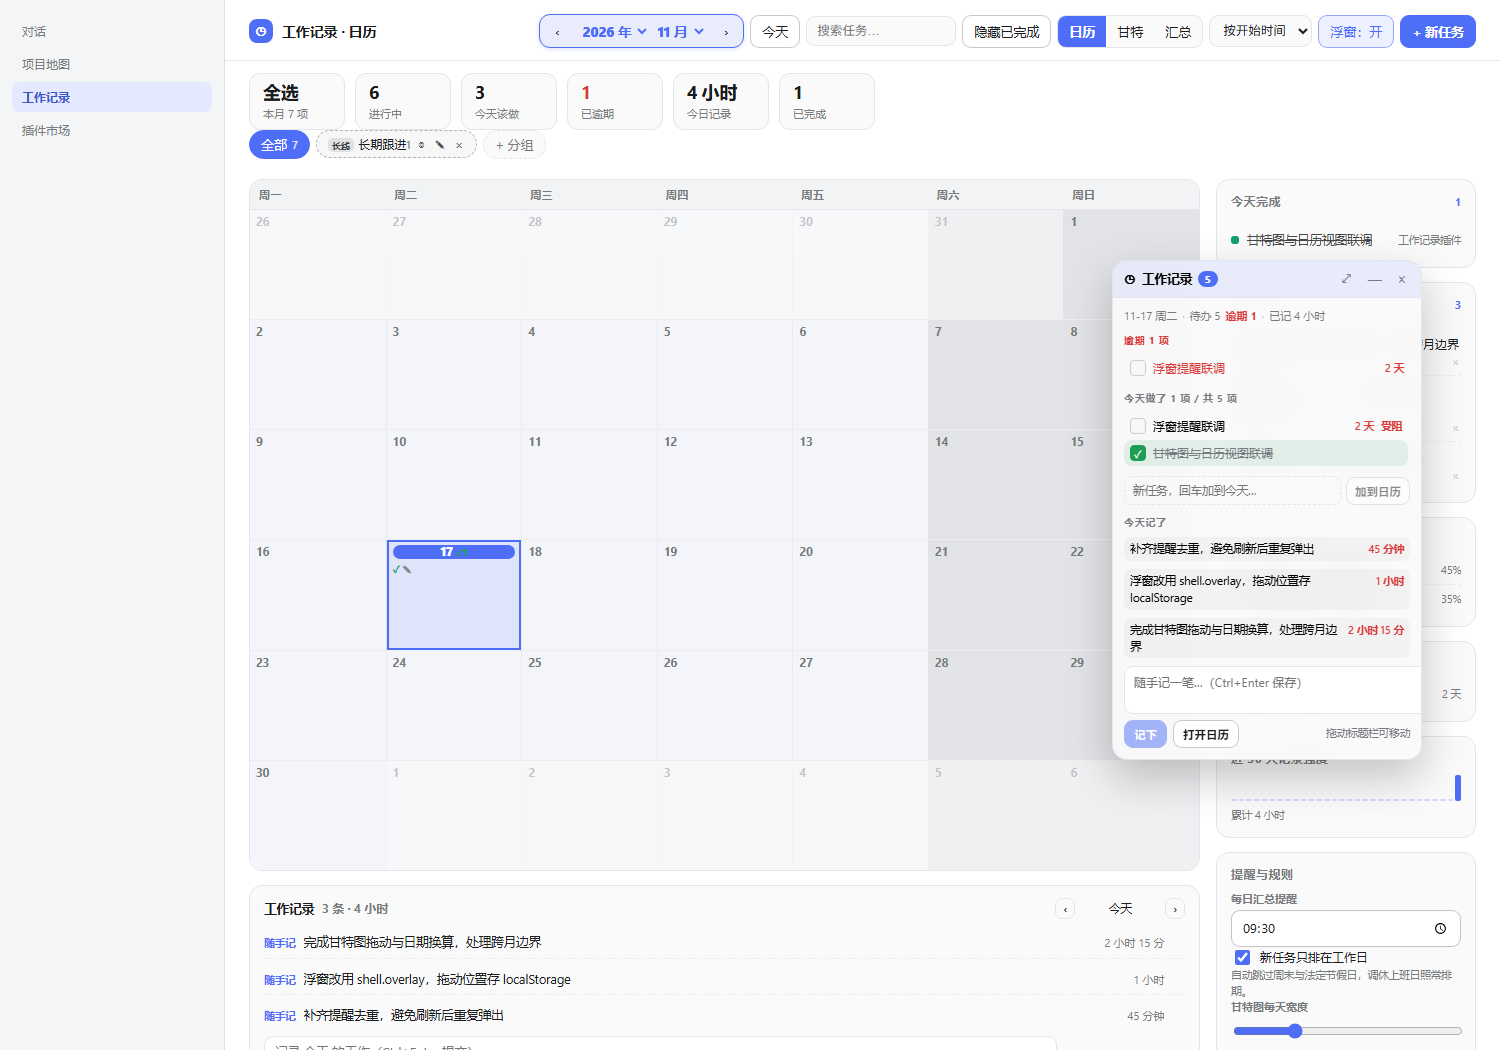
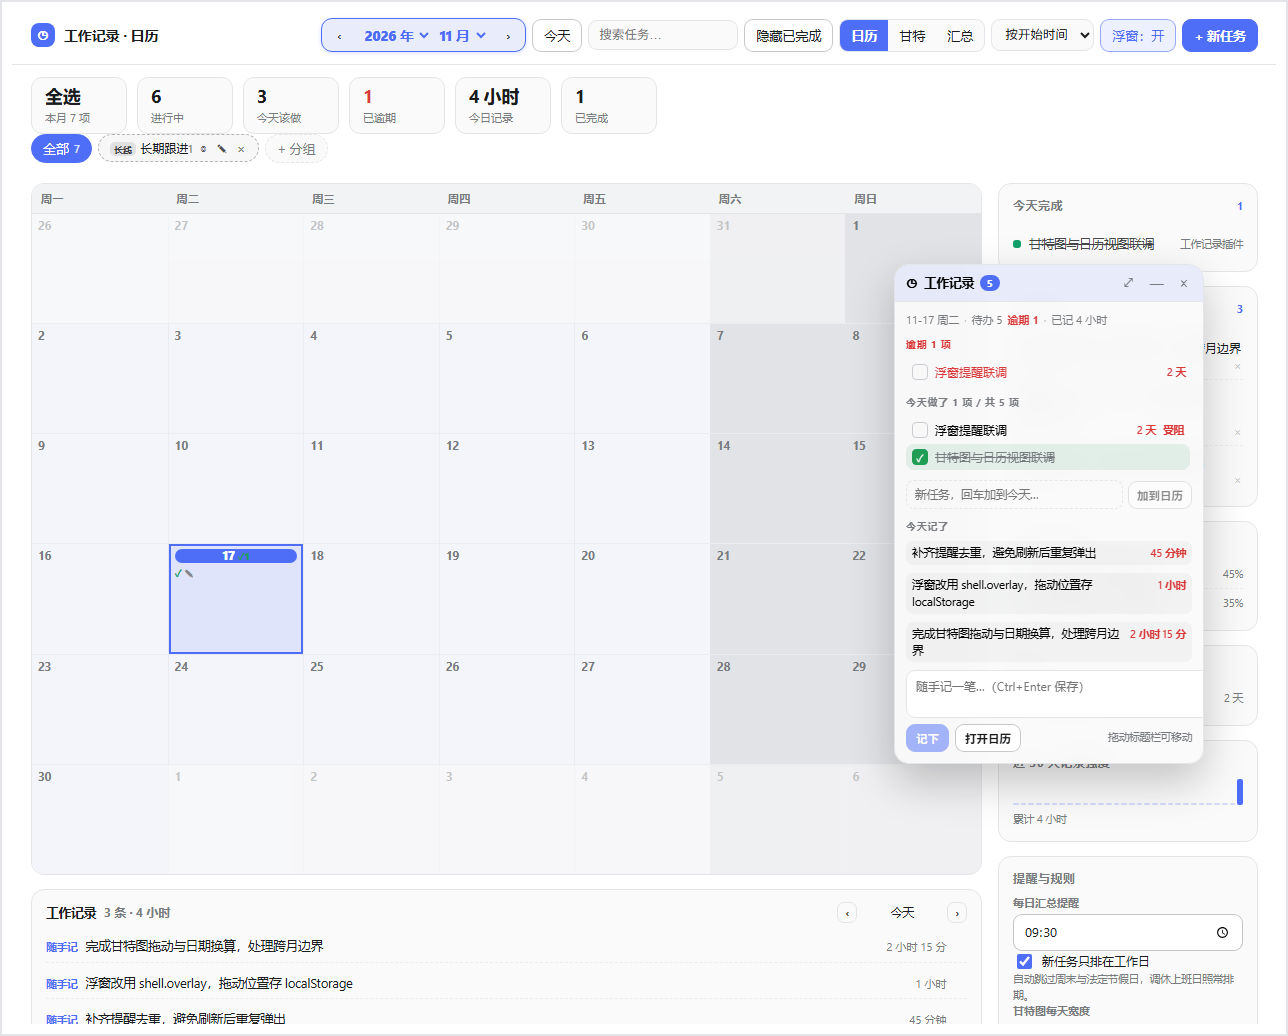
Polish README screenshots
Add a hero image and crop the remaining screenshots to the panel area so
they line up at the same size.

diff --git a/README.md b/README.md
@@ -4,7 +4,7 @@
 
 插件为单个独立包，无构建步骤、无第三方运行时依赖，浏览器端与宿主端代码都随仓库提供。数据保存在插件目录下的单个 JSON 文件中，卸载或迁移时随目录一并带走。
 
-![日历视图](docs/calendar.png)
+![日历视图与浮动提醒窗](docs/hero.png)
 
 ## 目录
 
@@ -40,19 +40,17 @@
 
 ## 界面预览
 
-日历视图以「我哪天做了什么」为信息主线的打卡表：
+开头的横幅展示日历视图与浮动提醒窗。以下为另外两个视图。
 
-![日历视图](docs/calendar.png)
-
-甘特视图显示完整任务名、项目、状态与实际时间跨度：
+甘特视图显示完整任务名、项目、状态与实际时间跨度，可拖动改期与改时长：
 
 ![甘特视图](docs/gantt.png)
 
-汇总视图回答「这段工作到底怎么过的」：
+汇总视图回答「这段工作到底怎么过的」，按任务与项目统计工时、受阻、跨度与打卡：
 
 ![汇总视图](docs/summary.png)
 
-浮动提醒窗与看板同时工作，浮窗可拖动、可收起为图标、可完全关闭：
+浮窗收起后为一个可拖动的圆钮，展开时占据右下角：
 
 ![浮窗](docs/dock.png)
 
